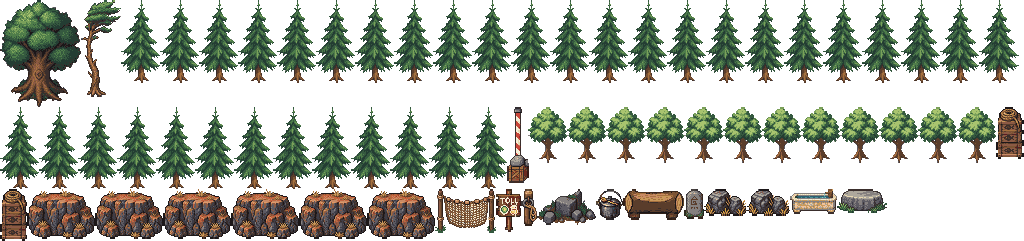
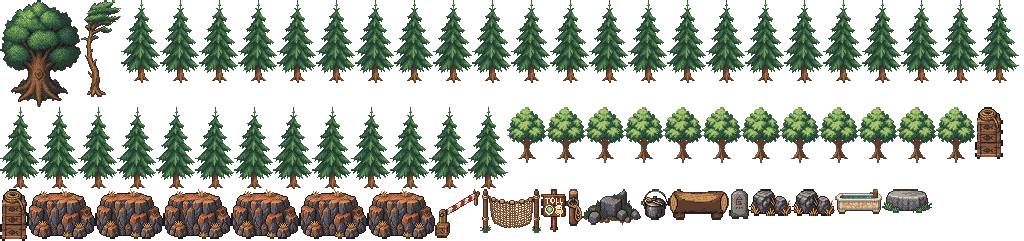
Lower the diagonal barrier across the river road's bridge
Claude-Session: https://claude.ai/code/session_01H8JDTPYztrZvUL5HBCK6eR

Changed region(s): [[0.4688, 0.4357, 1.0, 0.7552], [0.4062, 0.7842, 0.9062, 0.9876]]

diff --git a/src/content/scenes/rg02.topdown.ts b/src/content/scenes/rg02.topdown.ts
@@ -854,13 +854,15 @@ export const RIVER_ROAD_OBJECTS: readonly TopDownObject[] = [
   onBox('shade-hitching-post', 'hitching_post', 'prop', { x: 13.4, y: 3.4, w: 0.25, h: 0.25 }),
   // the bridge (a walkway: the RG-02 baker lays it flat into the plate, no cast), and the borrowed barrier across it
   onBox('bridge-deck', 'plank_bridge', 'walkway', { x: 19, y: 5, w: 2, h: 2 }, { deck: true }),
-  // its foot stands on the planks (a deck piece: the plate under the bridge is water), clear of the deck's south edge
+  // the lowered barrier (`toll_bar_diag`): its post and crate at the deck's south-west corner, inside the rails, and
+  // the striped arm angling across the planks to its forked stick at the north-east; a deck piece, since the plate
+  // under the bridge is water
   onBox(
     'bridge-toll-pole',
-    'toll_bar_across',
+    'toll_bar_diag',
     'prop',
-    { x: 20.6, y: 5.1, w: 0.2, h: 1.8 },
-    { deck: true, base: -8 },
+    { x: 19.2, y: 5.5, w: 1.1, h: 1.3 },
+    { deck: true },
   ),
   // the guards' camp
   onBox('camp-cold-fire', 'cold_fire', 'flat', { x: 24, y: 3, w: 1, h: 1 }),
